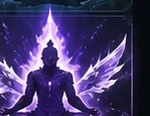
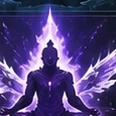
fix-realm-visual-display

diff --git a/web/src/styles/globals.css b/web/src/styles/globals.css
@@ -20,17 +20,17 @@
 @layer components {
     .cultivation-admin-page .cultivation-realm-list-items button.cultivation-realm-item {
         display: grid;
-        grid-template-columns: 1.35rem 4.2rem minmax(10rem, 1fr) 5.5rem 3.2rem;
+        grid-template-columns: 1.35rem 4.2rem minmax(0, 1fr) 5.5rem 3.2rem;
         align-items: center;
         gap: 0.55rem;
-        min-height: 6.65rem;
+        min-height: 5.35rem;
         padding: 0.45rem 0.7rem 0.45rem 0.5rem;
         overflow: hidden;
         border-radius: 0.55rem;
     }
 
     .cultivation-admin-page .cultivation-realm-tier,
-    .cultivation-admin-page .cultivation-realm-badge,
+    .cultivation-admin-page .cultivation-realm-visual-badge,
     .cultivation-admin-page .cultivation-realm-aura,
     .cultivation-admin-page .cultivation-realm-state-wrap {
         position: relative;
@@ -46,10 +46,10 @@
         text-align: center;
     }
 
-    .cultivation-admin-page .cultivation-realm-badge {
+    .cultivation-admin-page .cultivation-realm-visual-badge {
         display: grid;
         width: 4.2rem;
-        height: 5.75rem;
+        height: 4.3rem;
         place-items: center;
         overflow: hidden;
         border: 1px solid color-mix(in srgb, var(--cultivation-admin-accent) 28%, rgb(151 177 204 / 18%));
@@ -62,17 +62,17 @@
             transform 180ms ease;
     }
 
-    .cultivation-admin-page .cultivation-realm-badge img {
+    .cultivation-admin-page .cultivation-realm-visual-badge img {
         width: 100%;
         height: 100%;
-        object-fit: cover;
+        object-fit: contain;
         object-position: center;
     }
 
     .cultivation-admin-page .cultivation-realm-aura {
         display: grid;
         width: 5.5rem;
-        height: 5.75rem;
+        height: 4.3rem;
         place-items: center;
         overflow: hidden;
         border-radius: 0.65rem;
@@ -85,7 +85,7 @@
     .cultivation-admin-page .cultivation-realm-aura img {
         width: 100%;
         height: 100%;
-        object-fit: cover;
+        object-fit: contain;
         object-position: center;
     }
 
@@ -105,8 +105,8 @@
         font-size: 0.72rem;
     }
 
-    .cultivation-admin-page .cultivation-realm-list-items button.cultivation-realm-item:hover .cultivation-realm-badge,
-    .cultivation-admin-page .cultivation-realm-list-items button.cultivation-realm-item.is-active .cultivation-realm-badge {
+    .cultivation-admin-page .cultivation-realm-list-items button.cultivation-realm-item:hover .cultivation-realm-visual-badge,
+    .cultivation-admin-page .cultivation-realm-list-items button.cultivation-realm-item.is-active .cultivation-realm-visual-badge {
         border-color: color-mix(in srgb, var(--cultivation-admin-accent) 72%, white 8%);
         box-shadow:
             inset 0 0 18px rgb(0 0 0 / 18%),
@@ -122,26 +122,34 @@
 
     @media (max-width: 1024px) {
         .cultivation-admin-page .cultivation-realm-list-items button.cultivation-realm-item {
-            grid-template-columns: 1.2rem 3.8rem minmax(8rem, 1fr) 5rem 2.8rem;
-            min-height: 6.1rem;
+            grid-template-columns: 1.2rem 3.8rem minmax(0, 1fr) 5rem 2.8rem;
+            min-height: 5rem;
         }
 
-        .cultivation-admin-page .cultivation-realm-badge,
+        .cultivation-admin-page .cultivation-realm-visual-badge,
         .cultivation-admin-page .cultivation-realm-aura {
             width: 100%;
-            height: 5.2rem;
+            height: 3.9rem;
         }
     }
 
     @media (max-width: 680px) {
         .cultivation-admin-page .cultivation-realm-list-items button.cultivation-realm-item {
-            grid-template-columns: 1.25rem 4rem minmax(0, 1fr) 5rem 2.8rem;
-            min-height: 5.9rem;
+            grid-template-columns: 1.1rem 3.6rem minmax(0, 1fr) 4.7rem 2.6rem;
+            min-height: 4.9rem;
+        }
+
+        .cultivation-admin-page .cultivation-admin-realm-rail {
+            grid-template-columns: minmax(0, 1fr);
+        }
+
+        .cultivation-admin-page .cultivation-admin-realm-node {
+            grid-template-columns: 3.2rem minmax(0, 1fr) 5rem;
         }
     }
 
     @media (prefers-reduced-motion: reduce) {
-        .cultivation-admin-page .cultivation-realm-badge,
+        .cultivation-admin-page .cultivation-realm-visual-badge,
         .cultivation-admin-page .cultivation-realm-aura {
             transition: none;
         }
@@ -763,60 +771,100 @@
     }
 
     .cultivation-admin-realm-rail {
-        display: flex;
-        min-width: 42rem;
-        align-items: flex-start;
-        padding: 0.8rem 0.1rem 0.9rem;
-        overflow-x: auto;
-        scrollbar-width: thin;
-        scrollbar-color: rgb(112 201 232 / 35%) transparent;
+        display: grid;
+        min-width: 0;
+        grid-template-columns: repeat(2, minmax(0, 1fr));
+        gap: 0.55rem;
+        padding: 0.25rem 0.05rem 0.9rem;
     }
 
     .cultivation-admin-realm-node {
         position: relative;
         display: grid;
-        min-width: 5.3rem;
-        flex: 1 1 0;
-        justify-items: center;
-        gap: 0.3rem;
-        padding: 0 0.55rem;
-        text-align: center;
+        min-width: 0;
+        min-height: 4.85rem;
+        grid-template-columns: 3.35rem minmax(0, 1fr) 4.65rem;
+        align-items: center;
+        gap: 0.5rem;
+        padding: 0.35rem 0.4rem 0.35rem 0.3rem;
+        border: 1px solid color-mix(in srgb, var(--realm-node-color) 28%, rgb(151 177 204 / 18%));
+        border-radius: 0.45rem;
+        background: linear-gradient(100deg, color-mix(in srgb, var(--realm-node-color) 11%, rgb(8 20 34 / 94%)), rgb(10 24 39 / 76%));
+        box-shadow: inset 0 0 18px rgb(0 0 0 / 12%);
+        overflow: hidden;
     }
 
-    .cultivation-admin-realm-node-icon {
+    .cultivation-admin-realm-node::after {
+        position: absolute;
+        inset: 0;
+        content: "";
+        pointer-events: none;
+        background: linear-gradient(90deg, transparent 42%, rgb(255 255 255 / 3%), transparent 100%);
+    }
+
+    .cultivation-admin-realm-node-badge {
+        position: relative;
+        z-index: 1;
         display: grid;
-        width: 2.8rem;
-        height: 2.8rem;
+        width: 3.35rem;
+        height: 4.1rem;
         place-items: center;
-        border: 1px solid color-mix(in srgb, var(--realm-node-color) 55%, #8da1b5 20%);
-        border-radius: 50%;
-        color: var(--realm-node-color);
-        background: color-mix(in srgb, var(--realm-node-color) 12%, #0a1928);
-        box-shadow: 0 0 20px color-mix(in srgb, var(--realm-node-color) 18%, transparent);
+        overflow: hidden;
+        border: 1px solid color-mix(in srgb, var(--realm-node-color) 45%, rgb(151 177 204 / 18%));
+        border-radius: 0.55rem;
+        background: rgb(5 14 24 / 58%);
+    }
+
+    .cultivation-admin-realm-node-badge img,
+    .cultivation-admin-realm-node-aura img {
+        width: 100%;
+        height: 100%;
+        object-fit: contain;
+        object-position: center;
+    }
+
+    .cultivation-admin-realm-node-copy {
+        position: relative;
+        z-index: 1;
+        min-width: 0;
+    }
+
+    .cultivation-admin-realm-node-order {
+        display: block;
+        margin-bottom: 0.12rem;
+        color: color-mix(in srgb, var(--realm-node-color) 65%, #71879a 35%);
+        font-size: 0.5rem;
+        font-variant-numeric: tabular-nums;
+        letter-spacing: 0.08em;
+    }
+
+    .cultivation-admin-realm-node-aura {
+        position: relative;
+        z-index: 1;
+        display: grid;
+        width: 4.65rem;
+        height: 4.1rem;
+        place-items: center;
+        overflow: hidden;
+        opacity: 0.9;
     }
 
     .cultivation-admin-realm-node strong {
+        display: block;
+        overflow: hidden;
         color: #e3ebf2;
-        font-size: 0.7rem;
+        font-size: 0.86rem;
         font-weight: 600;
         white-space: nowrap;
+        text-overflow: ellipsis;
     }
 
-    .cultivation-admin-realm-node > span:not(.cultivation-admin-realm-connector) {
+    .cultivation-admin-realm-node-copy > span:last-child {
+        display: block;
+        margin-top: 0.18rem;
         color: #70869b;
         font-size: 0.58rem;
         white-space: nowrap;
-    }
-
-    .cultivation-admin-realm-connector {
-        position: absolute;
-        top: 1.25rem;
-        right: -0.45rem;
-        display: grid;
-        width: 0.9rem;
-        height: 0.9rem;
-        place-items: center;
-        color: #557189;
     }
 
     .cultivation-admin-panel-footnote {
@@ -5278,7 +5326,7 @@ html[data-imperial-mode="true"] {
 
     .cultivation-admin-page .cultivation-realm-list-items button.cultivation-realm-item {
         position: relative;
-        min-height: 6.65rem;
+        min-height: 5.35rem;
         gap: 0.55rem;
         padding: 0.45rem 0.7rem 0.45rem 0.5rem;
         border: 1px solid transparent;
@@ -5415,7 +5463,7 @@ html[data-imperial-mode="true"] {
         }
 
         .cultivation-admin-page .cultivation-realm-list-items button.cultivation-realm-item {
-            min-height: 6.1rem;
+            min-height: 5rem;
         }
     }
 }

diff --git a/web/src/pages/admin/cultivation/index.tsx b/web/src/pages/admin/cultivation/index.tsx
@@ -633,7 +633,7 @@ function GrowthRulesPanel() {
                                 <span className="cultivation-realm-tier" aria-hidden="true">
                                     {String(index + 1).padStart(2, "0")}
                                 </span>
-                                <span className="cultivation-realm-badge" aria-hidden="true">
+                                <span className="cultivation-realm-visual-badge" aria-hidden="true">
                                     <img src={realmHero.badgeSrc} alt="" loading="lazy" decoding="async" />
                                 </span>
                                 <span className="min-w-0 flex-1">
@@ -1142,20 +1142,24 @@ function OverviewPanel({ onOpenUser, onNavigate }: { onOpenUser: (displayName: s
                         </Button>
                     </div>
                     <div className="cultivation-admin-realm-rail">
-                        {realms.map((realm, index) => (
-                            <div key={realm.id} className="cultivation-admin-realm-node">
-                                <div className="cultivation-admin-realm-node-icon" style={{ "--realm-node-color": realm.color } as CSSProperties}>
-                                    <RealmIcon iconKey={realm.iconKey} className="size-5" />
+                        {realms.map((realm, index) => {
+                            const realmHero = cultivationRealmHero(realm.id);
+                            return (
+                                <div key={realm.id} className="cultivation-admin-realm-node" style={{ "--realm-node-color": realm.color } as CSSProperties}>
+                                    <div className="cultivation-admin-realm-node-badge" aria-hidden="true">
+                                        <img src={realmHero.badgeSrc} alt="" loading="lazy" decoding="async" />
+                                    </div>
+                                    <div className="cultivation-admin-realm-node-copy">
+                                        <span className="cultivation-admin-realm-node-order">{String(index + 1).padStart(2, "0")}</span>
+                                        <strong>{realm.name}</strong>
+                                        <span>{realm.stages.filter((stage) => stage.active).length} 个阶段</span>
+                                    </div>
+                                    <div className="cultivation-admin-realm-node-aura" aria-hidden="true">
+                                        <img src={realmHero.auraSrc} alt="" loading="lazy" decoding="async" />
+                                    </div>
                                 </div>
-                                <strong>{realm.name}</strong>
-                                <span>{realm.stages.filter((stage) => stage.active).length} 个阶段</span>
-                                {index < realms.length - 1 ? (
-                                    <span className="cultivation-admin-realm-connector" aria-hidden="true">
-                                        <ChevronRight className="size-3.5" />
-                                    </span>
-                                ) : null}
-                            </div>
-                        ))}
+                            );
+                        })}
                         {!config.isLoading && !realms.length ? <AdminEmptyLine text="暂无已启用境界配置" /> : null}
                     </div>
                     <div className="cultivation-admin-panel-footnote">
